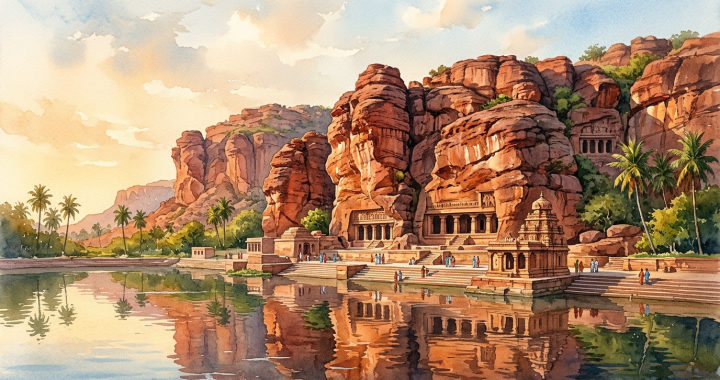
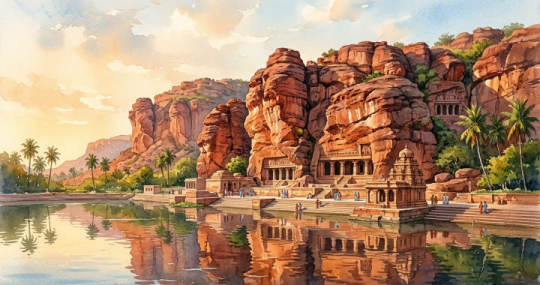
feat(kannadablitz): add spiral prior-level revision & compress postcard JPGs

Changed region(s): [[0.8889, 0.5614, 0.9185, 0.5895], [0.6519, 0.3088, 0.6815, 0.3368]]

diff --git a/kannadablitz/src/engine/curriculum.ts b/kannadablitz/src/engine/curriculum.ts
@@ -113,13 +113,22 @@ function planFor(
   sentences: string[],
   readings: string[],
   review: string[],
+  priorVocab: string[],
+  priorLetters: string[],
   rng: () => number,
 ): ExercisePlan[] {
   const w = (i: number) => cycle(words, i);
+  const pv = (i: number) => cycle(priorVocab, i);
+  const pl = (i: number) => cycle(priorLetters, i);
   const pool = review.length >= 4 ? review : [...new Set([...words, ...review])];
   const group = (n: number, off = 0) => {
     const src = pool.length >= n ? pool : [...new Set([...pool, ...words])];
     return shuffle(src, rng).slice(off, off + n);
+  };
+  const spiralGroup = (n: number, priorCount = 1) => {
+    const fromPrior = priorVocab.length ? shuffle(priorVocab, rng).slice(0, priorCount) : [];
+    const fromCur = shuffle(pool.length ? pool : words, rng).filter((id) => !fromPrior.includes(id));
+    return [...fromPrior, ...fromCur].slice(0, n);
   };
   const s = (i: number) => cycle(sentences, i);
   const p = (i: number) => cycle(phrases, i);
@@ -141,6 +150,8 @@ function planFor(
     const lpick = (i: number) => ({ type: "letter_pick" as const, letterId: L(i) });
     const find = (i: number) => ({ type: "letter_find" as const, letterId: L(i) });
     const trace = (i: number, freehand = false) => ({ type: "letter_trace" as const, letterId: L(i), freehand });
+    const prevLpick = (i: number) => (pl(i) ? { type: "letter_pick" as const, letterId: pl(i)! } : lpick(i));
+    const prevFind = (i: number) => (pl(i) ? { type: "letter_find" as const, letterId: pl(i)! } : find(i));
     const n = letters.length;
     // Words that use this lesson's letters, so every letter is immediately read in context.
     const wIntro = (i: number) => intro(i) ?? lpick(i);
@@ -148,44 +159,44 @@ function planFor(
     if (kind === "lesson") {
       let seq: ExercisePlan[];
       if (mode === "writing") {
-        seq = [learn(0), trace(0), trace(0, true), wIntro(0), learn(1), trace(1), trace(1, true), lpick(0), find(1), wPick(0)];
+        seq = [learn(0), trace(0), trace(0, true), prevLpick(0), learn(1), trace(1), trace(1, true), lpick(0), prevFind(1), wPick(0)];
       } else if (n >= 4) {
-        seq = [learn(0), trace(0), learn(1), trace(1), wIntro(0), learn(2), learn(3), trace(2), find(3), wPick(0)];
+        seq = [learn(0), trace(0), learn(1), trace(1), wIntro(0), learn(2), learn(3), prevLpick(0), find(3), wPick(0)];
       } else if (n === 3) {
-        seq = [learn(0), trace(0), learn(1), trace(1), wIntro(0), learn(2), trace(2), lpick(0), find(1), wPick(0)];
+        seq = [learn(0), trace(0), learn(1), trace(1), wIntro(0), learn(2), trace(2), prevLpick(0), find(1), wPick(0)];
       } else {
-        seq = [learn(0), trace(0), n > 1 ? learn(1) : lpick(0), trace(n > 1 ? 1 : 0, n <= 1), wIntro(0), lpick(0), wIntro(1), find(n - 1), trace(0, true), wPick(1)];
+        seq = [learn(0), trace(0), n > 1 ? learn(1) : lpick(0), trace(n > 1 ? 1 : 0, n <= 1), wIntro(0), prevLpick(0), wIntro(1), find(n - 1), trace(0, true), wPick(1)];
       }
       seq.forEach(push);
     } else {
-      // review: recognise, trace from memory, and read words, ending with a word match
+      // review: recognise, trace from memory, and spiral-review prior level letters & words
       for (let i = 0; i < EXERCISES_PER_SUBLEVEL - 1; i++) {
         const t = i % 5;
         const word = pool.length ? pick(cycle(shuffle(pool, rng), i)) : null;
-        push(t === 0 ? lpick(i) : t === 1 ? trace(i, kind !== "milestone" || i > 4) : t === 2 ? find(i) : t === 3 ? word ?? lpick(i + 3) : trace(i + 2, true));
+        push(t === 0 ? (i % 2 === 1 ? prevLpick(i) : lpick(i)) : t === 1 ? trace(i, kind !== "milestone" || i > 4) : t === 2 ? (i % 2 === 0 ? prevFind(i) : find(i)) : t === 3 ? word ?? lpick(i + 3) : trace(i + 2, true));
       }
-      push(pool.length >= 3 ? { type: "match_grid", vocabIds: group(4) } : find(9));
+      push(pool.length >= 3 ? { type: "match_grid", vocabIds: spiralGroup(4, 1) } : prevFind(9));
     }
     return out.slice(0, EXERCISES_PER_SUBLEVEL);
   }
 
   if (kind === "lesson") {
     if (mode === "sentences") {
-      [intro(0), fill(s(0)), pick(w(0)), intro(1), build(s(1)), grid([w(0)!, w(1)!, ...group(2)].filter(Boolean)), fill(s(2)), rpick(w(1)), phrase(p(0)) ?? flash(w(2)), build(s(3))].forEach(push);
+      [intro(0), fill(s(0)), pick(pv(0)) ?? pick(w(0)), intro(1), build(s(1)), grid(spiralGroup(4, 2)), fill(s(2)), rpick(w(1)), phrase(p(0)) ?? flash(pv(1) ?? w(2)), build(s(3))].forEach(push);
     } else if (mode === "mixed") {
-      [intro(0), intro(1), pick(w(0)), phrase(p(0)) ?? intro(2), intro(2), grid([w(0)!, w(1)!, w(2)!].filter(Boolean)), fill(s(0)) ?? pick(w(2)), intro(3), build(s(1)) ?? rpick(w(3) ?? w(1)), cols([w(0)!, w(1)!, w(2)!, w(3)!].filter(Boolean))].forEach(push);
+      [intro(0), intro(1), pick(w(0)), phrase(p(0)) ?? pick(pv(0)) ?? intro(2), intro(2), grid([...words.slice(0, 3), ...(pv(0) ? [pv(0)!] : [])].filter(Boolean)), fill(s(0)) ?? pick(pv(1) ?? w(2)), intro(3), build(s(1)) ?? rpick(pv(2) ?? w(3) ?? w(1)), cols(spiralGroup(5, 2))].forEach(push);
     } else {
-      [intro(0), intro(1), pick(w(0)), intro(2), pick(w(1)), grid([w(0)!, w(1)!, w(2)!].filter(Boolean)), intro(3), rpick(w(2)), fill(s(0)) ?? flash(w(3)), cols([w(0)!, w(1)!, w(2)!, w(3)!].filter(Boolean))].forEach(push);
+      [intro(0), intro(1), pick(w(0)), intro(2), pick(pv(0) ?? w(1)), grid([...words.slice(0, 3), ...(pv(1) ? [pv(1)!] : [])].filter(Boolean)), intro(3), rpick(w(2)), fill(s(0)) ?? flash(pv(2) ?? w(3)), cols(spiralGroup(5, 2))].forEach(push);
     }
   } else if (kind === "milestone") {
     const r = group(6);
-    [pick(r[0]), rpick(r[1]), grid(group(4)), pick(r[2]), fill(s(0)) ?? pick(r[5]), flash(r[3]), cols(group(5)), build(s(1)) ?? rpick(r[4]), phrase(p(0)) ?? pick(r[1]), grid(group(4, 1))].forEach(push);
+    [pick(r[0]), rpick(pv(0) ?? r[1]), grid(spiralGroup(4, 2)), pick(r[2]), fill(s(0)) ?? pick(pv(1) ?? r[5]), flash(r[3]), cols(spiralGroup(5, 2)), build(s(1)) ?? rpick(r[4]), phrase(p(0)) ?? pick(pv(2) ?? r[1]), grid(spiralGroup(4, 1))].forEach(push);
   } else {
-    // challenge + bonus: harder mix, more production (script_pick) and sentences
+    // challenge + bonus: harder mix with strong spiral revision of prior levels + sentences
     const r = group(7);
     const read = readings.length ? { type: "reading" as const, readingId: readings[0] } : null;
-    [rpick(r[0]), fill(s(0)) ?? pick(r[0]), cols(group(5)), rpick(r[1]), build(s(1)) ?? pick(r[1]), pick(r[2]),
-      read ?? grid(group(5)), rpick(r[3]), build(s(2)) ?? rpick(r[4]), cols(group(6, 1))].forEach(push);
+    [rpick(r[0]), fill(s(0)) ?? pick(pv(0) ?? r[0]), cols(spiralGroup(5, 2)), rpick(pv(1) ?? r[1]), build(s(1)) ?? pick(r[1]), pick(pv(2) ?? r[2]),
+      read ?? grid(spiralGroup(5, 2)), rpick(r[3]), build(s(2)) ?? rpick(pv(3) ?? r[4]), cols(spiralGroup(6, 2))].forEach(push);
   }
   // Pad with safe fallbacks if a slot had nothing to reference.
   let k = 0;
@@ -195,6 +206,8 @@ function planFor(
 
 export function buildCurriculum(pack: LanguagePack): Curriculum {
   const used = new Set<string>();
+  const priorVocabAll: string[] = [];
+  const priorLettersAll: string[] = [];
   const rng = seeded(`${pack.config.id}@${pack.config.version}`);
   const levels: Level[] = [];
 
@@ -233,7 +246,9 @@ export function buildCurriculum(pack: LanguagePack): Curriculum {
       const review = kind === "lesson" ? [] : index === MILESTONE || isLetterMode ? [...new Set(levelWords)] : vocab.map((v) => v.id);
       const subSentences = kind === "lesson" ? sentChunks[slot % Math.max(1, sentChunks.length)] ?? [] : shuffle(sentences, rng).slice(0, 4);
       const subPhrases = shuffle(phrases, rng).slice(0, 2);
-      const plan = planFor(kind, spec.mode, words, letters, subPhrases, subSentences, readings, review, rng);
+      const subPriorVocab = shuffle(priorVocabAll, rng).slice(0, 8);
+      const subPriorLetters = shuffle(priorLettersAll, rng).slice(0, 6);
+      const plan = planFor(kind, spec.mode, words, letters, subPhrases, subSentences, readings, review, subPriorVocab, subPriorLetters, rng);
       const leadVocab = pack.vocab.find((v) => v.id === words[0]);
       const leadLetters = letters.map((id) => pack.letters.find((l) => l.id === id)!).filter(Boolean);
 
@@ -289,6 +304,7 @@ export function buildCurriculum(pack: LanguagePack): Curriculum {
       if (n > 1) s.title = `${s.title} ${["", "", "II", "III", "IV", "V", "VI", "VII", "VIII"][n] ?? n}`;
     });
 
+    const levelVocabIds = isLetterMode ? [...new Set(levelWords)] : vocab.map((v) => v.id);
     levels.push({
       number: spec.number,
       title: spec.title,
@@ -300,8 +316,10 @@ export function buildCurriculum(pack: LanguagePack): Curriculum {
       sublevels: subs,
       xp: 100 + spec.number * 10,
       coins: 40 + spec.number * 5,
-      vocabIds: isLetterMode ? [...new Set(levelWords)] : vocab.map((v) => v.id),
+      vocabIds: levelVocabIds,
     });
+    for (const id of levelVocabIds) if (!priorVocabAll.includes(id)) priorVocabAll.push(id);
+    for (const l of lettersAll) if (!priorLettersAll.includes(l.id)) priorLettersAll.push(l.id);
   }
 
   const sublevels = levels.flatMap((l) => l.sublevels);

diff --git a/kannadablitz/src/engine/engine.test.ts b/kannadablitz/src/engine/engine.test.ts
@@ -56,6 +56,12 @@ describe("curriculum", () => {
     }
     expect(fresh / total).toBeGreaterThan(0.75);
   });
+  it("weaves prior-level revision into later levels", () => {
+    const prior = new Set<string>(cur.levels.slice(0, 4).flatMap((l) => l.vocabIds));
+    const l5Plans = cur.levels[4].sublevels.flatMap((s) => s.plan);
+    const revisits = l5Plans.filter((p) => (p.vocabIds ?? []).some((id) => prior.has(id)));
+    expect(revisits.length).toBeGreaterThanOrEqual(8);
+  });
   it("builds for another language without code changes", () => {
     const hi = buildCurriculum(HINDI_PACK);
     expect(hi.levels).toHaveLength(3);
